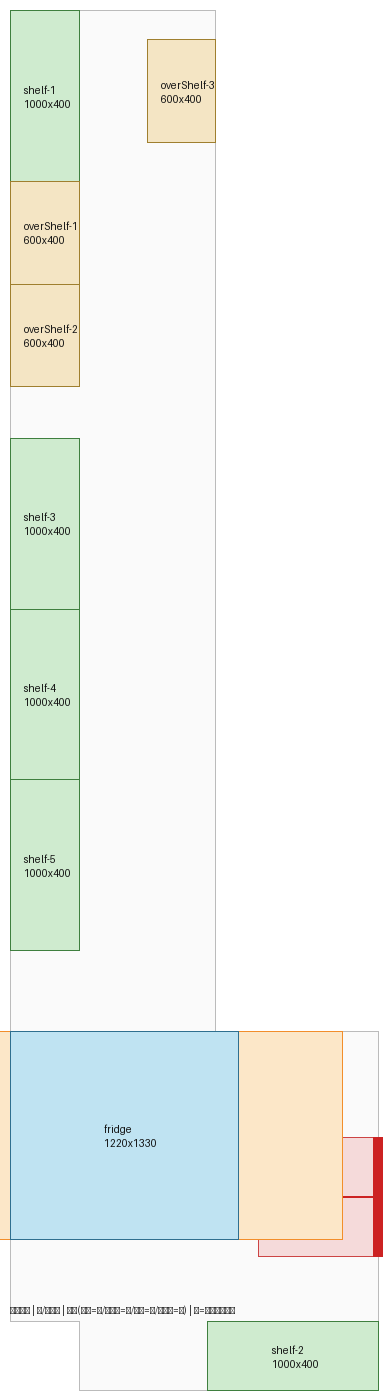
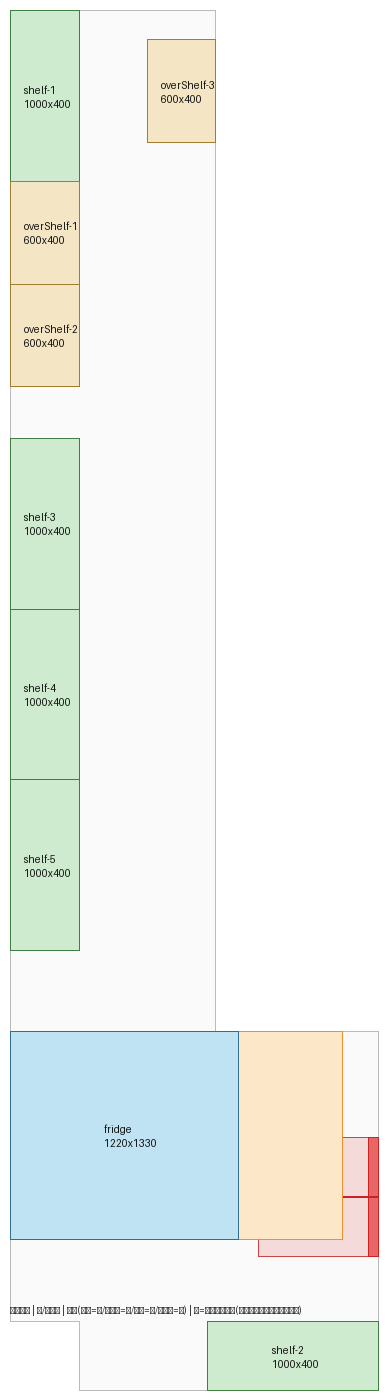
修复示意图：冰箱净空带只画生效侧、门标记改为向房间内偏移，不再有元素画到轮廓外；补像素级回归测试

Changed region(s): [[0.9278, 0.7986, 0.9897, 0.9214], [0.6186, 0.9214, 0.7732, 0.9521], [0.0, 0.7371, 0.0309, 0.8907]]

diff --git a/solve/render.py b/solve/render.py
@@ -55,16 +55,22 @@ def render_layout(problem: Problem, placements: List[Dict], out_png: str, max_di
     if zone is not None:
         d.polygon([P(p) for p in zone], outline="#CC4444", fill="#F5DADA")
 
-    # door segment (bold)
-    p0, p1 = P(door.p0), P(door.p1)
-    d.line([p0, p1], fill="#CC2222", width=max(3, round(scale * 60)))
-    # swing arrow (inward)
+    # door: a thick marker offset INTO the room (so nothing is drawn outside the
+    # outline). Its outer edge lies exactly on the wall segment = the doorway line.
+    n_in = door.inward
+    thick = 55.0
+    marker = [door.p0, door.p1,
+              geom.add(door.p1, geom.mul(n_in, thick)),
+              geom.add(door.p0, geom.mul(n_in, thick))]
+    d.polygon([P(x) for x in marker], outline="#CC2222", fill="#E86666")
+    # inward swing indicator
     if door.is_open_inward:
         mid = ((door.p0[0] + door.p1[0]) / 2, (door.p0[1] + door.p1[1]) / 2)
-        tip = (mid[0] + door.inward[0] * door.width * 0.9, mid[1] + door.inward[1] * door.width * 0.9)
+        tip = (mid[0] + n_in[0] * door.width * 0.9, mid[1] + n_in[1] * door.width * 0.9)
         d.line([P(mid), P(tip)], fill="#CC2222", width=2)
 
-    # fridge front bands first (under items)
+    # fridge clearance band: draw ONLY the effective (room-side) face band, so the
+    # picture never shows a band sticking out through the wall
     by_name = {it.name: it for it in problem.items}
     for p in placements:
         it = by_name.get(p.get("name"))
@@ -76,12 +82,15 @@ def render_layout(problem: Problem, placements: List[Dict], out_png: str, max_di
         corners = geom.rect_corners(center, length, width, ang)
         u = (math.cos(math.radians(ang)), math.sin(math.radians(ang)))
         v = (-u[1], u[0])
+        chosen = None
         for sign in (1, -1):
             cA, cB = (corners[2], corners[3]) if sign == 1 else (corners[0], corners[1])
-            n = geom.mul(v, sign)
-            off = geom.mul(n, length / 2.0)
+            off = geom.mul(geom.mul(v, sign), length / 2.0)
             band = [cA, cB, geom.add(cB, off), geom.add(cA, off)]
-            d.polygon([P(x) for x in band], outline="#F28E2B", fill="#FCE7C8")
+            if chosen is None and geom.rect_inside_polygon(band, room.poly, 1e-2):
+                chosen = band          # the room-side face = the effective clearance
+        if chosen is not None:
+            d.polygon([P(x) for x in chosen], outline="#F28E2B", fill="#FCE7C8")
 
     # items
     for p in placements:
@@ -98,7 +107,7 @@ def render_layout(problem: Problem, placements: List[Dict], out_png: str, max_di
 
     # legend
     ly = H - 96
-    d.text((10, ly), "房间轮廓 | 门/内开区 | 物品(冰箱=蓝/制冰机=紫/货架=绿/离地架=黄) | 橙=冰箱开门净空", fill="#333333")
+    d.text((10, ly), "房间轮廓 | 门/内开区 | 物品(冰箱=蓝/制冰机=紫/货架=绿/离地架=黄) | 橙=冰箱开门净空(生效侧，画在房间内的那条)", fill="#333333")
 
     img.save(out_png)
     print("rendered", out_png)

diff --git a/solve/tests/test_render.py b/solve/tests/test_render.py
@@ -1,0 +1,69 @@
+import os
+import sys
+import tempfile
+import unittest
+
+sys.path.insert(0, os.path.dirname(os.path.dirname(os.path.dirname(os.path.abspath(__file__)))))
+
+from solve import geom, render
+from solve.tests.helpers import load, solve_cached
+
+try:
+    import PIL  # noqa: F401
+    HAVE_PIL = True
+except ImportError:
+    HAVE_PIL = False
+
+PAD, MAX_DIM = 60.0, 1400
+ORANGE = [(252, 231, 200), (242, 142, 43)]        # fridge clearance band
+RED = [(232, 102, 102), (204, 34, 34), (245, 218, 218), (204, 68, 68)]  # door / N x N zone
+
+
+def _near(px, target, tol=14):
+    return all(abs(px[i] - target[i]) <= tol for i in range(3))
+
+
+@unittest.skipUnless(HAVE_PIL, "Pillow not installed")
+class TestRenderInsideOutline(unittest.TestCase):
+    """Regression: the layout PNG must not draw the door marker or the fridge
+    clearance band outside the room outline (that made the picture misleading)."""
+
+    def _check(self, k):
+        from PIL import Image
+        problem, _result, out = solve_cached(k, dfs_nodes=0)
+        x0, y0, x1, y1 = problem.room.bbox
+        with tempfile.TemporaryDirectory() as td:
+            png = os.path.join(td, "layout.png")
+            render.render_layout(problem, out["placements"], png)
+            img = Image.open(png).convert("RGB")
+            W, H = img.size
+            px = img.load()
+            scale = max(min(MAX_DIM / (x1 - x0 + 2 * PAD), MAX_DIM / (y1 - y0 + 2 * PAD)), 0.02)
+            outside = {"orange": 0, "red": 0}
+            stride = 3   # sampling: any real overhang is thousands of pixels wide
+            for yy in range(0, H, stride):
+                for xx in range(0, W, stride):
+                    c = px[xx, yy]
+                    is_o = any(_near(c, t) for t in ORANGE)
+                    is_r = any(_near(c, t) for t in RED)
+                    if not (is_o or is_r):
+                        continue
+                    # pixel -> mm, with a tolerance of one pixel size
+                    mm = (xx / scale - PAD + x0, yy / scale - PAD + y0)
+                    if not geom.point_in_polygon(mm, problem.room.poly, 1.0 / scale + 1.0):
+                        if is_o:
+                            outside["orange"] += 1
+                        if is_r:
+                            outside["red"] += 1
+        return outside
+
+    def test_no_band_or_door_outside_outline(self):
+        for k in (1, 2, 3, 4):
+            with self.subTest(example=k):
+                outside = self._check(k)
+                self.assertEqual(outside["orange"], 0, "fridge band drawn outside the room")
+                self.assertEqual(outside["red"], 0, "door marker drawn outside the room")
+
+
+if __name__ == "__main__":
+    unittest.main()
